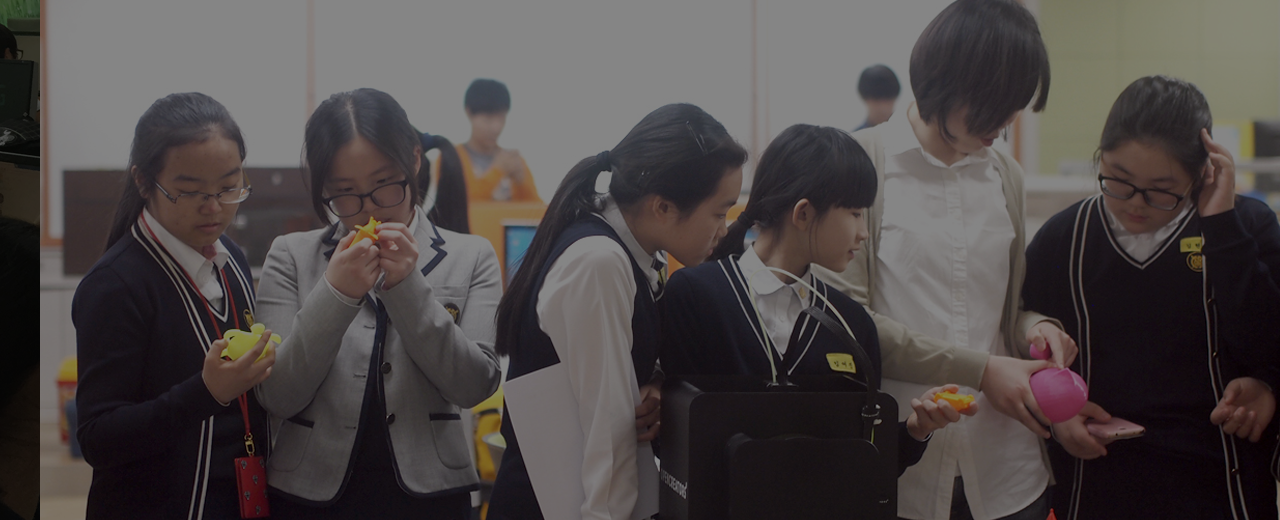
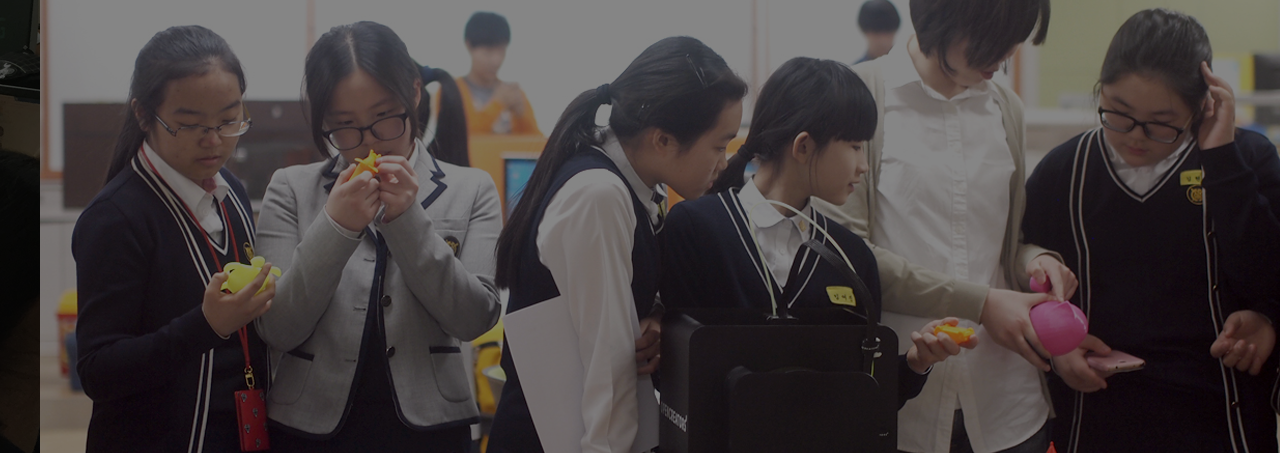
소개, 워크샵

diff --git a/WebUI/Makers.Bus/Content/css/layout.css b/WebUI/Makers.Bus/Content/css/layout.css
@@ -46,6 +46,7 @@
 .subTop .title.partnership{background:url(../images/ico_top_partnership.png) no-repeat 850px 43px}
 .subTop .title.blog{background:url(../images/ico_top_blog.png) no-repeat 850px 53px}
 .subTop .title.workshop{background:url(../images/ico_top_workshop.png) no-repeat 850px 40px}
+.subTop .title.intro{background:url(../images/ico_top_intro.png) no-repeat 850px 48px}
 
 
 /* TopVisual */
@@ -59,7 +60,7 @@
 
 .topVisu .top_cover_img{position:absolute;top:15%;left:50%;margin-left:-420px;display:block;width:834px;height:275px;background:url(../images/main_cover_3d_txt.png) no-repeat}
 
-.mainButtons .top_txt{z-index:201;position:absolute;top:13.5%;left:50%;margin-left:-225px;display:block;width:500px;height:166px;background:url(../images/txt_main.png) no-repeat}
+.mainButtons .top_txt{z-index:201;position:absolute;top:6.7%;left:50%;margin-left:-225px;display:block;width:500px;height:166px;background:url(../images/txt_main.png) no-repeat}
 .mainButtons .top_btn_apply{z-index:201;position:absolute;top:138%;left:50%;width:262px;height:52px;background-color:#fb810e;color:#fff;font-size:18px;line-height:52px;font-weight:bold;text-align:center;margin-left:-288px;border-radius:9px;-ms-border-radius:9px;-webkit-border-radius:9px;}
 .mainButtons .top_btn_apply:hover{background-color:#e86e00}
 .mainButtons .top_btn_inquire{z-index:201;position:absolute;top:138%;left:50%;width:262px;height:52px;background-color:#fb810e;color:#fff;font-size:18px;line-height:52px;font-weight:bold;text-align:center;margin-left:10px;border-radius:9px;-ms-border-radius:9px;-webkit-border-radius:9px;}
@@ -67,9 +68,9 @@
 
 
 /* MainSlide */
-.unslider-carousel	{position:relative;overflow:hidden;background:#000;display:block;height:520px;width:100%; }
+.unslider-carousel	{position:relative;overflow:hidden;background:#000;display:block;height:260px;width:100%; }
 .unslider-carousel ul	{list-style:none;margin:0;width:100%}
-.unslider-carousel ul li	{float:left; height:520px;width:100%;padding:0;margin:0;display:block;position:relative}
+.unslider-carousel ul li	{float:left; height:260px;width:100%;padding:0;margin:0;display:block;position:relative}
 .unslider-carousel ul:after{content:"";display:block;clear:both}
 .unslider-carousel .container	{margin:0 auto;position:relative;top:80%;-webkit-transform:translateY(-80%);-ms-transform:translateY(-80%);transform:translateY(-80%)}
 .unslider-carousel .container p.txt1 { font-family: Roboto; font-size: 42px; color:#fff; text-align: center; }
@@ -90,19 +91,19 @@
 .current_num .school{float:left;display:inline-block;margin-left:43px;margin-right:60px;width:98px;height:98px;background:url(../images/sp_ico_main.png) no-repeat;text-align:center;}
 .current_num .line{float:left;display:block;margin-left:55px;width:1px;height:91px;background-color:#d9d9d9}
 .current_num .printer{float:left;display:inline-block;margin-left:40px;margin-right:60px;width:98px;height:98px;background:url(../images/sp_ico_main.png) no-repeat -113px 0;text-align:center;}
-.current_num .student{float:left;display:inline-block;margin-left:40px;margin-right:60px;width:98px;height:98px;background:url(../images/sp_ico_main.png) no-repeat -226px 0;text-align:center;}
-.current_num .modeling{float:left;display:inline-block;margin-left:40px;margin-right:60px;width:98px;height:98px;background:url(../images/sp_ico_main.png) no-repeat -339px 0;text-align:center;}
+.current_num .student{float:left;display:inline-block;margin-left:40px;margin-right:60px;width:98px;height:98px;background:url(../images/sp_ico_main.png) no-repeat -339px 0;text-align:center;}
+.current_num .modeling{float:left;display:inline-block;margin-left:40px;margin-right:60px;width:98px;height:98px;background:url(../images/sp_ico_main.png) no-repeat -226px 0;text-align:center;}
 .current_num:after{content:"";display:block;clear:both}
 .current_num .num{display:block;margin-left:110px;padding-top:10px;width:100px;font-size:33px;color:#fb810e;font-weight:bold;text-align:center;letter-spacing:-1px}
 .current_num .title{display:block;margin-left:90px;width:100px;font-size:15px;color:#fb810e;text-align:center}
 .current_num .school .num{margin-left:90px}
 .current_num .school .title{margin-left:91px;padding-top:5px}
 .current_num .printer .num{margin-left:96px}
-.current_num .printer .title{margin-left:97px}
+.current_num .printer .title{margin-left:97px;padding-top:5px}
 .current_num .student .num{margin-left:100px}
-.current_num .student .title{margin-left:101px}
+.current_num .student .title{margin-left:101px;padding-top:5px}
 .current_num .modeling .num{margin-left:100px}
-.current_num .modeling .title{margin-left:101px}
+.current_num .modeling .title{margin-left:101px;padding-top:5px}
 .current_num .asof{float:left;margin-left:46%;margin-top:24px;color:#A8A8A8;}
 
 .contWrap.line{position:absolute;top:700px;display:block;width:100%;height:1px;background:#000;}
@@ -140,6 +141,44 @@
 .more{position:absolute;top:50%;top:425px;left:50%;margin-left:-48px;margin-bottom: 37px;display: inline-block;width: 120px;height: 35px;background: #f4f4f6;color: #fb810e;border: solid 2px #fb810e;text-align: center;line-height: 35px;font-size: 14px;font-weight: bold;border-radius:3px;-ms-border-radius:3px;-webkit-border-radius:3px}
 .more:hover{background:#fb810e;color:#ffffff}
 
+/* 소개 */
+.graybg.intro{margin-bottom:-100px;height:800px}
+.current_sit{position:absolute;left:50%;margin-left:-480px}
+.current_sit1{margin-top:10px;width:800px;}
+.current_sit2{margin-top:40px;width:800px;}
+.current_sit1 .school{float:left;display:inline-block;margin-left:43px;margin-right:60px;width:98px;height:98px;background:url(../images/sp_ico_main.png) no-repeat;text-align:center;}
+.current_sit1 .student{float:left;display:inline-block;margin-left:350px;margin-right:60px;width:98px;height:98px;background:url(../images/sp_ico_main.png) no-repeat -226px 0;text-align:center;}
+.current_sit1:after{content:"";display:block;clear:both}
+.current_sit2 .modeling{float:left;display:inline-block;margin-left:40px;margin-right:60px;width:98px;height:98px;background:url(../images/sp_ico_main.png) no-repeat -339px 0;text-align:center;}
+.current_sit2 .printer{float:left;display:inline-block;margin-left:350px;margin-right:60px;width:98px;height:98px;background:url(../images/sp_ico_main.png) no-repeat -113px 0;text-align:center;}
+.current_sit .line{float:left;display:block;margin-left:55px;width:1px;height:91px;background-color:#d9d9d9}
+
+.current_sit1 .num,.current_sit2 .num{display:block;margin-left:140px;padding-top:10px;width:100px;font-size:33px;color:#fb810e;font-weight:bold;text-align:center;letter-spacing:-1px}
+
+.current_sit1 .school .numDisc{float:left;margin-left:220px;margin-top:-50px;width:200px;font-size:13px;text-align:left}
+.current_sit1 .student .numDisc{float:left;margin-left:220px;margin-top:-50px;width:200px;font-size:13px;text-align:left}
+.current_sit2 .modeling .numDisc{float:left;margin-left:220px;margin-top:-50px;width:200px;font-size:13px;text-align:left}
+.current_sit2 .printer .numDisc{float:left;margin-left:220px;margin-top:-50px;width:200px;font-size:13px;text-align:left}
+.current_sit:after{content:"";display:block;clear:both}
+.current_sit1:after{content:"";display:block;clear:both}
+.current_sit2:after{content:"";display:block;clear:both}
+.current_sit1 .title{display:block;margin-left:90px;width:100px;font-size:15px;color:#fb810e;text-align:center}
+.current_sit2 .title{display:block;margin-left:90px;width:100px;font-size:15px;color:#fb810e;text-align:center}
+.current_sit1 .school .num{margin-left:110px}
+.current_sit1 .school .title{margin-left:111px;padding-top:5px}
+.current_sit2 .printer .num{margin-left:106px}
+.current_sit2 .printer .title{margin-left:107px}
+.current_sit1 .student .num{margin-left:110px}
+.current_sit1 .student .title{margin-left:111px}
+.current_sit2 .modeling .num{margin-left:110px}
+.current_sit2 .modeling .title{margin-left:111px}
+
+.history{display:inline-block;position:absolute;left:50%;top:450px;margin-left:-130px;font-size:17px;line-height:30px}
+.history .line{display:block;width:80px;height:1px;background:#fb810e;position:absolute;left:50%;top:-20px;margin-left:-60px}
+.history .col1{width:100px;float:left}
+.history .col2{width:200px;float:left}
+
+
 /* 신청문의 */
 .subPage{position:relative;width:100%; margin:0 auto; background:#f4f4f6}
 .subPage .tabMenu{margin:0 auto;padding-top:30px;width:1025px}
@@ -152,7 +191,7 @@
 
 .subPage .subCont{position:relative;margin:0 auto;padding-top:30px;padding-bottom:200px;width:1025px;background:#fff;}
 .subPage .subCont .disc{padding-left:56px;font-size:18px;line-height:42px}
-.subPage .subCont .downApply{cursor:pointer;position:absolute;right:50px;top:40px;width:158px;height:45px;background:#fb810e;color:#fff;font-size:17px;text-align:center;line-height:45px;border-radius:3px;-ms-border-radius:3px;-webkit-border-radius:3px}
+.subPage .subCont .downApply{cursor:pointer;position:absolute;right:560px;top:34px;width:140px;height:30px;background:#fb810e;color:#fff;font-size:16px;text-align:center;line-height:30px;border-radius:3px;-ms-border-radius:3px;-webkit-border-radius:3px}
 .subPage .subCont .downApply:hover{background:#e86e00}
 
 .subPage .subCont ul{margin-top:30px}
@@ -198,7 +237,7 @@
 .subPage.blog .blogList .blogImg{position:absolute;top:20px;right:20px}
 
 /* 워크샵 */
-.subPage .subCont .wTitle{margin-top:20px;margin-left:67px;font-size:26px;color:#fb810e;}
+.subPage .subCont .wTitle{margin-top:20px;margin-left:66px;font-size:26px;color:#fb810e;}
 .subPage .subCont .workshop1{position:relative;display:block;margin:0 0 0 70px;background:url(../images/ico_w1.png) no-repeat;width:110px;height:110px}
 .subPage .subCont .workshop2{position:relative;display:block;margin:20px 0 0 70px;background:url(../images/ico_w2.png) no-repeat;width:110px;height:110px}
 .subPage .subCont .workshop3{position:relative;display:block;margin:20px 0 0 70px;background:url(../images/ico_w3.png) no-repeat;width:110px;height:110px}

diff --git a/WebUI/Makers.Bus/Controllers/InfoController.cs b/WebUI/Makers.Bus/Controllers/InfoController.cs
@@ -27,6 +27,7 @@ namespace Makers.Bus.Controllers
         public ActionResult About()
         {
             ViewData["Menu"] = "about";
+            ViewData["IsMain"] = "Y";
             //통계
             MakerBusState state = busManageDac.GetMakerbusState();
             ViewData["SchoolCnt"] = string.Format("{0:n0}", state.SchoolCnt);
